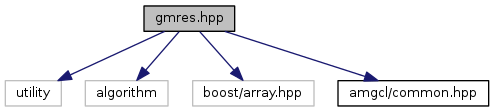
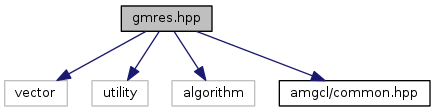
doc update

Changed region(s): [[0.269, 0.0268, 1.0, 0.9643], [0.0299, 0.2679, 0.508, 0.9643]]

diff --git a/structamgcl_1_1gmres__tag.html b/structamgcl_1_1gmres__tag.html
@@ -3,7 +3,7 @@
 <head>
 <meta http-equiv="Content-Type" content="text/xhtml;charset=UTF-8"/>
 <meta http-equiv="X-UA-Compatible" content="IE=9"/>
-<title>amgcl: amgcl::gmres_tag&lt; M &gt; Struct Template Reference</title>
+<title>amgcl: amgcl::gmres_tag Struct Reference</title>
 <link href="tabs.css" rel="stylesheet" type="text/css"/>
 <script type="text/javascript" src="jquery.js"></script>
 <script type="text/javascript" src="dynsections.js"></script>
@@ -52,7 +52,7 @@
 <a href="#pub-attribs">Public Attributes</a> &#124;
 <a href="structamgcl_1_1gmres__tag-members.html">List of all members</a>  </div>
   <div class="headertitle">
-<div class="title">amgcl::gmres_tag&lt; M &gt; Struct Template Reference</div>  </div>
+<div class="title">amgcl::gmres_tag Struct Reference</div>  </div>
 </div><!--header-->
 <div class="contents">
 
@@ -63,32 +63,27 @@
 <table class="memberdecls">
 <tr class="heading"><td colspan="2"><h2 class="groupheader"><a name="pub-methods"></a>
 Public Member Functions</h2></td></tr>
-<tr class="memitem:acbf582c62357544eb32341241117598a"><td class="memItemLeft" align="right" valign="top"><a class="anchor" id="acbf582c62357544eb32341241117598a"></a>
-&#160;</td><td class="memItemRight" valign="bottom"><b>gmres_tag</b> (int <a class="el" href="structamgcl_1_1gmres__tag.html#a3a2fb4072b03f48828a86e1b1318f8bb">maxiter</a>=100, double <a class="el" href="structamgcl_1_1gmres__tag.html#a91c7da6bb61467fb3cbec655c08b539c">tol</a>=1e-8)</td></tr>
-<tr class="separator:acbf582c62357544eb32341241117598a"><td class="memSeparator" colspan="2">&#160;</td></tr>
+<tr class="memitem:a7d90b4c6764ed2f3b420edb906b26098"><td class="memItemLeft" align="right" valign="top"><a class="anchor" id="a7d90b4c6764ed2f3b420edb906b26098"></a>
+&#160;</td><td class="memItemRight" valign="bottom"><b>gmres_tag</b> (int <a class="el" href="structamgcl_1_1gmres__tag.html#af2d40de41c597b38601e995961f82189">M</a>=30, int <a class="el" href="structamgcl_1_1gmres__tag.html#a9be6f55190cef122f0248a7b461a5ce4">maxiter</a>=100, double <a class="el" href="structamgcl_1_1gmres__tag.html#a948a0ab88614854773e6f8bb15d06466">tol</a>=1e-8)</td></tr>
+<tr class="separator:a7d90b4c6764ed2f3b420edb906b26098"><td class="memSeparator" colspan="2">&#160;</td></tr>
 </table><table class="memberdecls">
 <tr class="heading"><td colspan="2"><h2 class="groupheader"><a name="pub-attribs"></a>
 Public Attributes</h2></td></tr>
-<tr class="memitem:a3a2fb4072b03f48828a86e1b1318f8bb"><td class="memItemLeft" align="right" valign="top"><a class="anchor" id="a3a2fb4072b03f48828a86e1b1318f8bb"></a>
-int&#160;</td><td class="memItemRight" valign="bottom"><a class="el" href="structamgcl_1_1gmres__tag.html#a3a2fb4072b03f48828a86e1b1318f8bb">maxiter</a></td></tr>
-<tr class="memdesc:a3a2fb4072b03f48828a86e1b1318f8bb"><td class="mdescLeft">&#160;</td><td class="mdescRight">Maximum number of iterations. <br/></td></tr>
-<tr class="separator:a3a2fb4072b03f48828a86e1b1318f8bb"><td class="memSeparator" colspan="2">&#160;</td></tr>
-<tr class="memitem:a91c7da6bb61467fb3cbec655c08b539c"><td class="memItemLeft" align="right" valign="top"><a class="anchor" id="a91c7da6bb61467fb3cbec655c08b539c"></a>
-double&#160;</td><td class="memItemRight" valign="bottom"><a class="el" href="structamgcl_1_1gmres__tag.html#a91c7da6bb61467fb3cbec655c08b539c">tol</a></td></tr>
-<tr class="memdesc:a91c7da6bb61467fb3cbec655c08b539c"><td class="mdescLeft">&#160;</td><td class="mdescRight">The desired precision. <br/></td></tr>
-<tr class="separator:a91c7da6bb61467fb3cbec655c08b539c"><td class="memSeparator" colspan="2">&#160;</td></tr>
+<tr class="memitem:af2d40de41c597b38601e995961f82189"><td class="memItemLeft" align="right" valign="top"><a class="anchor" id="af2d40de41c597b38601e995961f82189"></a>
+int&#160;</td><td class="memItemRight" valign="bottom"><a class="el" href="structamgcl_1_1gmres__tag.html#af2d40de41c597b38601e995961f82189">M</a></td></tr>
+<tr class="memdesc:af2d40de41c597b38601e995961f82189"><td class="mdescLeft">&#160;</td><td class="mdescRight">Number of iterations before restart. <br/></td></tr>
+<tr class="separator:af2d40de41c597b38601e995961f82189"><td class="memSeparator" colspan="2">&#160;</td></tr>
+<tr class="memitem:a9be6f55190cef122f0248a7b461a5ce4"><td class="memItemLeft" align="right" valign="top"><a class="anchor" id="a9be6f55190cef122f0248a7b461a5ce4"></a>
+int&#160;</td><td class="memItemRight" valign="bottom"><a class="el" href="structamgcl_1_1gmres__tag.html#a9be6f55190cef122f0248a7b461a5ce4">maxiter</a></td></tr>
+<tr class="memdesc:a9be6f55190cef122f0248a7b461a5ce4"><td class="mdescLeft">&#160;</td><td class="mdescRight">Maximum number of iterations. <br/></td></tr>
+<tr class="separator:a9be6f55190cef122f0248a7b461a5ce4"><td class="memSeparator" colspan="2">&#160;</td></tr>
+<tr class="memitem:a948a0ab88614854773e6f8bb15d06466"><td class="memItemLeft" align="right" valign="top"><a class="anchor" id="a948a0ab88614854773e6f8bb15d06466"></a>
+double&#160;</td><td class="memItemRight" valign="bottom"><a class="el" href="structamgcl_1_1gmres__tag.html#a948a0ab88614854773e6f8bb15d06466">tol</a></td></tr>
+<tr class="memdesc:a948a0ab88614854773e6f8bb15d06466"><td class="mdescLeft">&#160;</td><td class="mdescRight">The desired precision. <br/></td></tr>
+<tr class="separator:a948a0ab88614854773e6f8bb15d06466"><td class="memSeparator" colspan="2">&#160;</td></tr>
 </table>
 <a name="details" id="details"></a><h2 class="groupheader">Detailed Description</h2>
-<div class="textblock"><h3>template&lt;size_t M = 30&gt;<br/>
-struct amgcl::gmres_tag&lt; M &gt;</h3>
-
-<p>Control parameters for GMRES method. </p>
-<dl class="params"><dt>Parameters</dt><dd>
-  <table class="params">
-    <tr><td class="paramname">M</td><td>Number of iterations before restart. </td></tr>
-  </table>
-  </dd>
-</dl>
+<div class="textblock"><p>Control parameters for GMRES method. </p>
 </div><hr/>The documentation for this struct was generated from the following file:<ul>
 <li><a class="el" href="common_8hpp.html">common.hpp</a></li>
 </ul>

diff --git a/gmres_8hpp.html b/gmres_8hpp.html
@@ -56,9 +56,9 @@
 
 <p>GMRES method.  
 <a href="#details">More...</a></p>
-<div class="textblock"><code>#include &lt;utility&gt;</code><br/>
+<div class="textblock"><code>#include &lt;vector&gt;</code><br/>
+<code>#include &lt;utility&gt;</code><br/>
 <code>#include &lt;algorithm&gt;</code><br/>
-<code>#include &lt;boost/array.hpp&gt;</code><br/>
 <code>#include &lt;<a class="el" href="common_8hpp.html">amgcl/common.hpp</a>&gt;</code><br/>
 </div><div class="textblock"><div id="dynsection-0" onclick="return toggleVisibility(this)" class="dynheader closed" style="cursor:pointer;">
   <img id="dynsection-0-trigger" src="closed.png" alt="+"/> Include dependency graph for gmres.hpp:</div>
@@ -67,7 +67,7 @@
 <div id="dynsection-0-content" class="dyncontent" style="display:none;">
 <div class="center"><img src="gmres_8hpp__incl.png" border="0" usemap="#gmres_8hpp" alt=""/></div>
 <map name="gmres_8hpp" id="gmres_8hpp">
-<area shape="rect" id="node9" href="common_8hpp.html" title="Common definitions for amgcl." alt="" coords="338,80,488,107"/></map>
+<area shape="rect" id="node9" href="common_8hpp.html" title="Common definitions for amgcl." alt="" coords="279,80,429,107"/></map>
 </div>
 </div><table class="memberdecls">
 <tr class="heading"><td colspan="2"><h2 class="groupheader"><a name="namespaces"></a>
@@ -86,15 +86,15 @@ template&lt;typename value_t &gt; </td></tr>
 template&lt;typename value_t &gt; </td></tr>
 <tr class="memitem:a19f01f3c965331090757d14db060d7f8"><td class="memTemplItemLeft" align="right" valign="top">void&#160;</td><td class="memTemplItemRight" valign="bottom"><b>amgcl::gmres::generate_plane_rotation</b> (value_t dx, value_t dy, value_t &amp;cs, value_t &amp;sn)</td></tr>
 <tr class="separator:a19f01f3c965331090757d14db060d7f8"><td class="memSeparator" colspan="2">&#160;</td></tr>
-<tr class="memitem:a57d496e8d0d1149fb1ed25f4b593c79f"><td class="memTemplParams" colspan="2"><a class="anchor" id="a57d496e8d0d1149fb1ed25f4b593c79f"></a>
-template&lt;size_t M, class vector &gt; </td></tr>
-<tr class="memitem:a57d496e8d0d1149fb1ed25f4b593c79f"><td class="memTemplItemLeft" align="right" valign="top">void&#160;</td><td class="memTemplItemRight" valign="bottom"><b>amgcl::gmres::update</b> (vector &amp;x, int k, boost::array&lt; boost::array&lt; typename value_type&lt; vector &gt;::type, M &gt;, M+1 &gt; &amp;h, const boost::array&lt; typename value_type&lt; vector &gt;::type, M+1 &gt; &amp;s, const boost::array&lt; vector, M+1 &gt; &amp;v, boost::array&lt; typename value_type&lt; vector &gt;::type, M+1 &gt; &amp;y)</td></tr>
-<tr class="separator:a57d496e8d0d1149fb1ed25f4b593c79f"><td class="memSeparator" colspan="2">&#160;</td></tr>
-<tr class="memitem:ga9854844427f73aac87036586dc7c62d0"><td class="memTemplParams" colspan="2">template&lt;size_t M, class matrix , class vector , class precond &gt; </td></tr>
-<tr class="memitem:ga9854844427f73aac87036586dc7c62d0"><td class="memTemplItemLeft" align="right" valign="top">std::pair&lt; int, typename <br class="typebreak"/>
-value_type&lt; vector &gt;::type &gt;&#160;</td><td class="memTemplItemRight" valign="bottom"><a class="el" href="group__iterative.html#ga9854844427f73aac87036586dc7c62d0">amgcl::solve</a> (const matrix &amp;A, const vector &amp;rhs, const precond &amp;P, vector &amp;x, gmres_tag&lt; M &gt; prm=gmres_tag&lt; M &gt;())</td></tr>
-<tr class="memdesc:ga9854844427f73aac87036586dc7c62d0"><td class="mdescLeft">&#160;</td><td class="mdescRight">GMRES method.  <a href="group__iterative.html#ga9854844427f73aac87036586dc7c62d0"></a><br/></td></tr>
-<tr class="separator:ga9854844427f73aac87036586dc7c62d0"><td class="memSeparator" colspan="2">&#160;</td></tr>
+<tr class="memitem:ab9e14bca1d873e101f0813bd01b8ef2d"><td class="memTemplParams" colspan="2"><a class="anchor" id="ab9e14bca1d873e101f0813bd01b8ef2d"></a>
+template&lt;class vector &gt; </td></tr>
+<tr class="memitem:ab9e14bca1d873e101f0813bd01b8ef2d"><td class="memTemplItemLeft" align="right" valign="top">void&#160;</td><td class="memTemplItemRight" valign="bottom"><b>amgcl::gmres::update</b> (vector &amp;x, int M, int k, std::vector&lt; typename value_type&lt; vector &gt;::type &gt; &amp;h, const std::vector&lt; typename value_type&lt; vector &gt;::type &gt; &amp;s, const std::vector&lt; vector &gt; &amp;v, std::vector&lt; typename value_type&lt; vector &gt;::type &gt; &amp;y)</td></tr>
+<tr class="separator:ab9e14bca1d873e101f0813bd01b8ef2d"><td class="memSeparator" colspan="2">&#160;</td></tr>
+<tr class="memitem:gae242f63b1c6ffabdc7ac440742e4297d"><td class="memTemplParams" colspan="2">template&lt;class matrix , class vector , class precond &gt; </td></tr>
+<tr class="memitem:gae242f63b1c6ffabdc7ac440742e4297d"><td class="memTemplItemLeft" align="right" valign="top">std::pair&lt; int, typename <br class="typebreak"/>
+value_type&lt; vector &gt;::type &gt;&#160;</td><td class="memTemplItemRight" valign="bottom"><a class="el" href="group__iterative.html#gae242f63b1c6ffabdc7ac440742e4297d">amgcl::solve</a> (const matrix &amp;A, const vector &amp;rhs, const precond &amp;P, vector &amp;x, gmres_tag prm=gmres_tag())</td></tr>
+<tr class="memdesc:gae242f63b1c6ffabdc7ac440742e4297d"><td class="mdescLeft">&#160;</td><td class="mdescRight">GMRES method.  <a href="group__iterative.html#gae242f63b1c6ffabdc7ac440742e4297d"></a><br/></td></tr>
+<tr class="separator:gae242f63b1c6ffabdc7ac440742e4297d"><td class="memSeparator" colspan="2">&#160;</td></tr>
 </table>
 <a name="details" id="details"></a><h2 class="groupheader">Detailed Description</h2>
 <div class="textblock"><p>GMRES method. </p>

diff --git a/group__iterative.html b/group__iterative.html
@@ -58,11 +58,11 @@ value_type&lt; vector &gt;::type &gt;&#160;</td><td class="memTemplItemRight" va
 value_type&lt; vector &gt;::type &gt;&#160;</td><td class="memTemplItemRight" valign="bottom"><a class="el" href="group__iterative.html#gac8e0c3c1ec4fdac25537aa7d20c008fd">amgcl::solve</a> (const matrix &amp;A, const vector &amp;rhs, const precond &amp;P, vector &amp;x, cg_tag prm=cg_tag())</td></tr>
 <tr class="memdesc:gac8e0c3c1ec4fdac25537aa7d20c008fd"><td class="mdescLeft">&#160;</td><td class="mdescRight">Conjugate Gradient method.  <a href="#gac8e0c3c1ec4fdac25537aa7d20c008fd"></a><br/></td></tr>
 <tr class="separator:gac8e0c3c1ec4fdac25537aa7d20c008fd"><td class="memSeparator" colspan="2">&#160;</td></tr>
-<tr class="memitem:ga9854844427f73aac87036586dc7c62d0"><td class="memTemplParams" colspan="2">template&lt;size_t M, class matrix , class vector , class precond &gt; </td></tr>
-<tr class="memitem:ga9854844427f73aac87036586dc7c62d0"><td class="memTemplItemLeft" align="right" valign="top">std::pair&lt; int, typename <br class="typebreak"/>
-value_type&lt; vector &gt;::type &gt;&#160;</td><td class="memTemplItemRight" valign="bottom"><a class="el" href="group__iterative.html#ga9854844427f73aac87036586dc7c62d0">amgcl::solve</a> (const matrix &amp;A, const vector &amp;rhs, const precond &amp;P, vector &amp;x, gmres_tag&lt; M &gt; prm=gmres_tag&lt; M &gt;())</td></tr>
-<tr class="memdesc:ga9854844427f73aac87036586dc7c62d0"><td class="mdescLeft">&#160;</td><td class="mdescRight">GMRES method.  <a href="#ga9854844427f73aac87036586dc7c62d0"></a><br/></td></tr>
-<tr class="separator:ga9854844427f73aac87036586dc7c62d0"><td class="memSeparator" colspan="2">&#160;</td></tr>
+<tr class="memitem:gae242f63b1c6ffabdc7ac440742e4297d"><td class="memTemplParams" colspan="2">template&lt;class matrix , class vector , class precond &gt; </td></tr>
+<tr class="memitem:gae242f63b1c6ffabdc7ac440742e4297d"><td class="memTemplItemLeft" align="right" valign="top">std::pair&lt; int, typename <br class="typebreak"/>
+value_type&lt; vector &gt;::type &gt;&#160;</td><td class="memTemplItemRight" valign="bottom"><a class="el" href="group__iterative.html#gae242f63b1c6ffabdc7ac440742e4297d">amgcl::solve</a> (const matrix &amp;A, const vector &amp;rhs, const precond &amp;P, vector &amp;x, gmres_tag prm=gmres_tag())</td></tr>
+<tr class="memdesc:gae242f63b1c6ffabdc7ac440742e4297d"><td class="mdescLeft">&#160;</td><td class="mdescRight">GMRES method.  <a href="#gae242f63b1c6ffabdc7ac440742e4297d"></a><br/></td></tr>
+<tr class="separator:gae242f63b1c6ffabdc7ac440742e4297d"><td class="memSeparator" colspan="2">&#160;</td></tr>
 <tr class="memitem:ga8b1eaa586d5a32da9f9a7e9a5e668216"><td class="memTemplParams" colspan="2">template&lt;class value_t , gpu_matrix_format Format, class precond &gt; </td></tr>
 <tr class="memitem:ga8b1eaa586d5a32da9f9a7e9a5e668216"><td class="memTemplItemLeft" align="right" valign="top">std::pair&lt; int, value_t &gt;&#160;</td><td class="memTemplItemRight" valign="bottom"><a class="el" href="group__iterative.html#ga8b1eaa586d5a32da9f9a7e9a5e668216">amgcl::solve</a> (const sparse::cuda_matrix&lt; value_t, Format &gt; &amp;A, const thrust::device_vector&lt; value_t &gt; &amp;rhs, const precond &amp;P, thrust::device_vector&lt; value_t &gt; &amp;x, cg_tag prm=cg_tag())</td></tr>
 <tr class="memdesc:ga8b1eaa586d5a32da9f9a7e9a5e668216"><td class="mdescLeft">&#160;</td><td class="mdescRight">Conjugate Gradient method for Thrust/CUSPARSE combination.  <a href="#ga8b1eaa586d5a32da9f9a7e9a5e668216"></a><br/></td></tr>
@@ -195,11 +195,11 @@ template&lt;class matrix , class vector , class precond &gt; </div>
 
 </div>
 </div>
-<a class="anchor" id="ga9854844427f73aac87036586dc7c62d0"></a>
+<a class="anchor" id="gae242f63b1c6ffabdc7ac440742e4297d"></a>
 <div class="memitem">
 <div class="memproto">
 <div class="memtemplate">
-template&lt;size_t M, class matrix , class vector , class precond &gt; </div>
+template&lt;class matrix , class vector , class precond &gt; </div>
       <table class="memname">
         <tr>
           <td class="memname">std::pair&lt; int, typename value_type&lt;vector&gt;::type &gt; amgcl::solve </td>
@@ -228,8 +228,8 @@ template&lt;size_t M, class matrix , class vector , class precond &gt; </div>
         <tr>
           <td class="paramkey"></td>
           <td></td>
-          <td class="paramtype">gmres_tag&lt; M &gt;&#160;</td>
-          <td class="paramname"><em>prm</em> = <code>gmres_tag&lt;M&gt;()</code>&#160;</td>
+          <td class="paramtype">gmres_tag&#160;</td>
+          <td class="paramname"><em>prm</em> = <code>gmres_tag()</code>&#160;</td>
         </tr>
         <tr>
           <td></td>

diff --git a/namespaceamgcl.html b/namespaceamgcl.html
@@ -127,11 +127,11 @@ value_type&lt; vector &gt;::type &gt;&#160;</td><td class="memTemplItemRight" va
 value_type&lt; vector &gt;::type &gt;&#160;</td><td class="memTemplItemRight" valign="bottom"><a class="el" href="group__iterative.html#gac8e0c3c1ec4fdac25537aa7d20c008fd">solve</a> (const matrix &amp;A, const vector &amp;rhs, const precond &amp;P, vector &amp;x, <a class="el" href="structamgcl_1_1cg__tag.html">cg_tag</a> prm=<a class="el" href="structamgcl_1_1cg__tag.html">cg_tag</a>())</td></tr>
 <tr class="memdesc:gac8e0c3c1ec4fdac25537aa7d20c008fd"><td class="mdescLeft">&#160;</td><td class="mdescRight">Conjugate Gradient method.  <a href="group__iterative.html#gac8e0c3c1ec4fdac25537aa7d20c008fd"></a><br/></td></tr>
 <tr class="separator:gac8e0c3c1ec4fdac25537aa7d20c008fd"><td class="memSeparator" colspan="2">&#160;</td></tr>
-<tr class="memitem:ga9854844427f73aac87036586dc7c62d0"><td class="memTemplParams" colspan="2">template&lt;size_t M, class matrix , class vector , class precond &gt; </td></tr>
-<tr class="memitem:ga9854844427f73aac87036586dc7c62d0"><td class="memTemplItemLeft" align="right" valign="top">std::pair&lt; int, typename <br class="typebreak"/>
-value_type&lt; vector &gt;::type &gt;&#160;</td><td class="memTemplItemRight" valign="bottom"><a class="el" href="group__iterative.html#ga9854844427f73aac87036586dc7c62d0">solve</a> (const matrix &amp;A, const vector &amp;rhs, const precond &amp;P, vector &amp;x, <a class="el" href="structamgcl_1_1gmres__tag.html">gmres_tag</a>&lt; M &gt; prm=<a class="el" href="structamgcl_1_1gmres__tag.html">gmres_tag</a>&lt; M &gt;())</td></tr>
-<tr class="memdesc:ga9854844427f73aac87036586dc7c62d0"><td class="mdescLeft">&#160;</td><td class="mdescRight">GMRES method.  <a href="group__iterative.html#ga9854844427f73aac87036586dc7c62d0"></a><br/></td></tr>
-<tr class="separator:ga9854844427f73aac87036586dc7c62d0"><td class="memSeparator" colspan="2">&#160;</td></tr>
+<tr class="memitem:gae242f63b1c6ffabdc7ac440742e4297d"><td class="memTemplParams" colspan="2">template&lt;class matrix , class vector , class precond &gt; </td></tr>
+<tr class="memitem:gae242f63b1c6ffabdc7ac440742e4297d"><td class="memTemplItemLeft" align="right" valign="top">std::pair&lt; int, typename <br class="typebreak"/>
+value_type&lt; vector &gt;::type &gt;&#160;</td><td class="memTemplItemRight" valign="bottom"><a class="el" href="group__iterative.html#gae242f63b1c6ffabdc7ac440742e4297d">solve</a> (const matrix &amp;A, const vector &amp;rhs, const precond &amp;P, vector &amp;x, <a class="el" href="structamgcl_1_1gmres__tag.html">gmres_tag</a> prm=<a class="el" href="structamgcl_1_1gmres__tag.html">gmres_tag</a>())</td></tr>
+<tr class="memdesc:gae242f63b1c6ffabdc7ac440742e4297d"><td class="mdescLeft">&#160;</td><td class="mdescRight">GMRES method.  <a href="group__iterative.html#gae242f63b1c6ffabdc7ac440742e4297d"></a><br/></td></tr>
+<tr class="separator:gae242f63b1c6ffabdc7ac440742e4297d"><td class="memSeparator" colspan="2">&#160;</td></tr>
 <tr class="memitem:ga8b1eaa586d5a32da9f9a7e9a5e668216"><td class="memTemplParams" colspan="2">template&lt;class value_t , gpu_matrix_format Format, class precond &gt; </td></tr>
 <tr class="memitem:ga8b1eaa586d5a32da9f9a7e9a5e668216"><td class="memTemplItemLeft" align="right" valign="top">std::pair&lt; int, value_t &gt;&#160;</td><td class="memTemplItemRight" valign="bottom"><a class="el" href="group__iterative.html#ga8b1eaa586d5a32da9f9a7e9a5e668216">solve</a> (const sparse::cuda_matrix&lt; value_t, Format &gt; &amp;A, const thrust::device_vector&lt; value_t &gt; &amp;rhs, const precond &amp;P, thrust::device_vector&lt; value_t &gt; &amp;x, <a class="el" href="structamgcl_1_1cg__tag.html">cg_tag</a> prm=<a class="el" href="structamgcl_1_1cg__tag.html">cg_tag</a>())</td></tr>
 <tr class="memdesc:ga8b1eaa586d5a32da9f9a7e9a5e668216"><td class="mdescLeft">&#160;</td><td class="mdescRight">Conjugate Gradient method for Thrust/CUSPARSE combination.  <a href="group__iterative.html#ga8b1eaa586d5a32da9f9a7e9a5e668216"></a><br/></td></tr>

diff --git a/functions.html b/functions.html
@@ -161,6 +161,9 @@
 
 
 <h3><a class="anchor" id="index_m"></a>- m -</h3><ul>
+<li>M
+: <a class="el" href="structamgcl_1_1gmres__tag.html#af2d40de41c597b38601e995961f82189">amgcl::gmres_tag</a>
+</li>
 <li>matrix()
 : <a class="el" href="structamgcl_1_1sparse_1_1matrix.html#a47f7b0d6c9662058ef5433a7d132a49e">amgcl::sparse::matrix&lt; value_t, index_t &gt;</a>
 </li>
@@ -168,15 +171,15 @@
 : <a class="el" href="structamgcl_1_1sparse_1_1matrix__map.html#a248328d2bd6909204c05c80efdfaec5e">amgcl::sparse::matrix_map&lt; value_t, index_t &gt;</a>
 </li>
 <li>maxiter
-: <a class="el" href="structamgcl_1_1gmres__tag.html#a3a2fb4072b03f48828a86e1b1318f8bb">amgcl::gmres_tag&lt; M &gt;</a>
+: <a class="el" href="structamgcl_1_1bicg__tag.html#a03d3f4e38bc9aee3f551c8fcb1e4f22e">amgcl::bicg_tag</a>
+, <a class="el" href="structamgcl_1_1gmres__tag.html#a9be6f55190cef122f0248a7b461a5ce4">amgcl::gmres_tag</a>
 , <a class="el" href="structamgcl_1_1level_1_1params.html#a89b944c37ce87f3d2835a4abded298a9">amgcl::level::params</a>
-, <a class="el" href="structamgcl_1_1bicg__tag.html#a03d3f4e38bc9aee3f551c8fcb1e4f22e">amgcl::bicg_tag</a>
 , <a class="el" href="structamgcl_1_1cg__tag.html#a39054178af217173585caa1ddfc5d00f">amgcl::cg_tag</a>
 </li>
 <li>mul()
-: <a class="el" href="classamgcl_1_1sparse_1_1cuda__matrix_3_01value__type_00_01GPU__MATRIX__CRS_01_4.html#a77427c5d0d8c163419e31c3a6618f8fa">amgcl::sparse::cuda_matrix&lt; value_type, GPU_MATRIX_CRS &gt;</a>
-, <a class="el" href="classamgcl_1_1sparse_1_1cuda__matrix_3_01value__type_00_01GPU__MATRIX__HYB_01_4.html#af53a96946fce9240eb6d5d9187f0f1c5">amgcl::sparse::cuda_matrix&lt; value_type, GPU_MATRIX_HYB &gt;</a>
-, <a class="el" href="classamgcl_1_1sparse_1_1cuda__matrix_3_01value__type_00_01GPU__MATRIX__CRS_01_4.html#adaa9304a3c54e4a0991e629a5748b940">amgcl::sparse::cuda_matrix&lt; value_type, GPU_MATRIX_CRS &gt;</a>
+: <a class="el" href="classamgcl_1_1sparse_1_1cuda__matrix_3_01value__type_00_01GPU__MATRIX__CRS_01_4.html#adaa9304a3c54e4a0991e629a5748b940">amgcl::sparse::cuda_matrix&lt; value_type, GPU_MATRIX_CRS &gt;</a>
+, <a class="el" href="classamgcl_1_1sparse_1_1cuda__matrix_3_01value__type_00_01GPU__MATRIX__HYB_01_4.html#aa1812bcfc25b011945eac2391c778f96">amgcl::sparse::cuda_matrix&lt; value_type, GPU_MATRIX_HYB &gt;</a>
+, <a class="el" href="classamgcl_1_1sparse_1_1cuda__matrix_3_01value__type_00_01GPU__MATRIX__CRS_01_4.html#a77427c5d0d8c163419e31c3a6618f8fa">amgcl::sparse::cuda_matrix&lt; value_type, GPU_MATRIX_CRS &gt;</a>
 </li>
 </ul>
 
@@ -267,7 +270,7 @@
 <li>tol
 : <a class="el" href="structamgcl_1_1bicg__tag.html#a4817ba6d3a5fe318e65e68e8a329d908">amgcl::bicg_tag</a>
 , <a class="el" href="structamgcl_1_1level_1_1params.html#a07f88e91f902efdac8cee6588c10f6a7">amgcl::level::params</a>
-, <a class="el" href="structamgcl_1_1gmres__tag.html#a91c7da6bb61467fb3cbec655c08b539c">amgcl::gmres_tag&lt; M &gt;</a>
+, <a class="el" href="structamgcl_1_1gmres__tag.html#a948a0ab88614854773e6f8bb15d06466">amgcl::gmres_tag</a>
 , <a class="el" href="structamgcl_1_1cg__tag.html#a7a7a7edd0ab8d2086fe20a3fc7686571">amgcl::cg_tag</a>
 </li>
 <li>top_matrix()

diff --git a/hierarchy.html b/hierarchy.html
@@ -69,7 +69,7 @@ This inheritance list is sorted roughly, but not completely, alphabetically:</di
 <tr id="row_15_"><td class="entry"><img src="ftv2node.png" alt="o" width="16" height="22" /><img src="ftv2cl.png" alt="C" width="24" height="22" /><a class="el" href="structamgcl_1_1level_1_1cuda__relax__scheme_3_01relax_1_1damped__jacobi_01_4.html" target="_self">amgcl::level::cuda_relax_scheme&lt; relax::damped_jacobi &gt;</a></td><td class="desc">Relax::damped_jacobi scheme for <a class="el" href="structamgcl_1_1level_1_1cuda.html" title="Thrust/CUSPARSE based AMG hierarchy.">level::cuda</a></td></tr>
 <tr id="row_16_" class="even"><td class="entry"><img src="ftv2node.png" alt="o" width="16" height="22" /><img src="ftv2cl.png" alt="C" width="24" height="22" /><a class="el" href="structamgcl_1_1level_1_1cuda__relax__scheme_3_01relax_1_1spai0_01_4.html" target="_self">amgcl::level::cuda_relax_scheme&lt; relax::spai0 &gt;</a></td><td class="desc">Relax::spai0 scheme for <a class="el" href="structamgcl_1_1level_1_1cuda.html" title="Thrust/CUSPARSE based AMG hierarchy.">level::cuda</a></td></tr>
 <tr id="row_17_"><td class="entry"><img src="ftv2node.png" alt="o" width="16" height="22" /><img src="ftv2cl.png" alt="C" width="24" height="22" /><a class="el" href="structamgcl_1_1interp_1_1galerkin__operator.html" target="_self">amgcl::interp::galerkin_operator</a></td><td class="desc">Galerkin operator</td></tr>
-<tr id="row_18_" class="even"><td class="entry"><img src="ftv2node.png" alt="o" width="16" height="22" /><img src="ftv2cl.png" alt="C" width="24" height="22" /><a class="el" href="structamgcl_1_1gmres__tag.html" target="_self">amgcl::gmres_tag&lt; M &gt;</a></td><td class="desc">Control parameters for GMRES method</td></tr>
+<tr id="row_18_" class="even"><td class="entry"><img src="ftv2node.png" alt="o" width="16" height="22" /><img src="ftv2cl.png" alt="C" width="24" height="22" /><a class="el" href="structamgcl_1_1gmres__tag.html" target="_self">amgcl::gmres_tag</a></td><td class="desc">Control parameters for GMRES method</td></tr>
 <tr id="row_19_"><td class="entry"><img src="ftv2node.png" alt="o" width="16" height="22" /><img src="ftv2cl.png" alt="C" width="24" height="22" /><a class="el" href="structamgcl_1_1sparse_1_1matrix.html" target="_self">amgcl::sparse::matrix&lt; value_t, index_t &gt;</a></td><td class="desc">Sparse matrix in CRS format</td></tr>
 <tr id="row_20_" class="even"><td class="entry"><img src="ftv2node.png" alt="o" width="16" height="22" /><img src="ftv2cl.png" alt="C" width="24" height="22" /><a class="el" href="structamgcl_1_1sparse_1_1matrix__index.html" target="_self">amgcl::sparse::matrix_index&lt; spmat &gt;</a></td><td class="desc">Type of matrix indices</td></tr>
 <tr id="row_21_"><td class="entry"><img src="ftv2node.png" alt="o" width="16" height="22" /><img src="ftv2cl.png" alt="C" width="24" height="22" /><a class="el" href="structamgcl_1_1sparse_1_1matrix__map.html" target="_self">amgcl::sparse::matrix_map&lt; value_t, index_t &gt;</a></td><td class="desc">Proxy for sparse matrix in CRS format that does not own its data</td></tr>

diff --git a/structamgcl_1_1gmres__tag-members.html b/structamgcl_1_1gmres__tag-members.html
@@ -48,15 +48,16 @@
 </div><!-- top -->
 <div class="header">
   <div class="headertitle">
-<div class="title">amgcl::gmres_tag&lt; M &gt; Member List</div>  </div>
+<div class="title">amgcl::gmres_tag Member List</div>  </div>
 </div><!--header-->
 <div class="contents">
 
-<p>This is the complete list of members for <a class="el" href="structamgcl_1_1gmres__tag.html">amgcl::gmres_tag&lt; M &gt;</a>, including all inherited members.</p>
+<p>This is the complete list of members for <a class="el" href="structamgcl_1_1gmres__tag.html">amgcl::gmres_tag</a>, including all inherited members.</p>
 <table class="directory">
-  <tr bgcolor="#f0f0f0"class="even"><td class="entry"><b>gmres_tag</b>(int maxiter=100, double tol=1e-8) (defined in <a class="el" href="structamgcl_1_1gmres__tag.html">amgcl::gmres_tag&lt; M &gt;</a>)</td><td class="entry"><a class="el" href="structamgcl_1_1gmres__tag.html">amgcl::gmres_tag&lt; M &gt;</a></td><td class="entry"><span class="mlabel">inline</span></td></tr>
-  <tr><td class="entry"><a class="el" href="structamgcl_1_1gmres__tag.html#a3a2fb4072b03f48828a86e1b1318f8bb">maxiter</a></td><td class="entry"><a class="el" href="structamgcl_1_1gmres__tag.html">amgcl::gmres_tag&lt; M &gt;</a></td><td class="entry"></td></tr>
-  <tr class="even"><td class="entry"><a class="el" href="structamgcl_1_1gmres__tag.html#a91c7da6bb61467fb3cbec655c08b539c">tol</a></td><td class="entry"><a class="el" href="structamgcl_1_1gmres__tag.html">amgcl::gmres_tag&lt; M &gt;</a></td><td class="entry"></td></tr>
+  <tr bgcolor="#f0f0f0"class="even"><td class="entry"><b>gmres_tag</b>(int M=30, int maxiter=100, double tol=1e-8) (defined in <a class="el" href="structamgcl_1_1gmres__tag.html">amgcl::gmres_tag</a>)</td><td class="entry"><a class="el" href="structamgcl_1_1gmres__tag.html">amgcl::gmres_tag</a></td><td class="entry"><span class="mlabel">inline</span></td></tr>
+  <tr><td class="entry"><a class="el" href="structamgcl_1_1gmres__tag.html#af2d40de41c597b38601e995961f82189">M</a></td><td class="entry"><a class="el" href="structamgcl_1_1gmres__tag.html">amgcl::gmres_tag</a></td><td class="entry"></td></tr>
+  <tr class="even"><td class="entry"><a class="el" href="structamgcl_1_1gmres__tag.html#a9be6f55190cef122f0248a7b461a5ce4">maxiter</a></td><td class="entry"><a class="el" href="structamgcl_1_1gmres__tag.html">amgcl::gmres_tag</a></td><td class="entry"></td></tr>
+  <tr><td class="entry"><a class="el" href="structamgcl_1_1gmres__tag.html#a948a0ab88614854773e6f8bb15d06466">tol</a></td><td class="entry"><a class="el" href="structamgcl_1_1gmres__tag.html">amgcl::gmres_tag</a></td><td class="entry"></td></tr>
 </table></div><!-- contents -->
 <!-- start footer part -->
 <hr class="footer"/><address class="footer"><small>

diff --git a/functions_vars.html b/functions_vars.html
@@ -129,11 +129,14 @@
 
 
 <h3><a class="anchor" id="index_m"></a>- m -</h3><ul>
+<li>M
+: <a class="el" href="structamgcl_1_1gmres__tag.html#af2d40de41c597b38601e995961f82189">amgcl::gmres_tag</a>
+</li>
 <li>maxiter
-: <a class="el" href="structamgcl_1_1cg__tag.html#a39054178af217173585caa1ddfc5d00f">amgcl::cg_tag</a>
-, <a class="el" href="structamgcl_1_1level_1_1params.html#a89b944c37ce87f3d2835a4abded298a9">amgcl::level::params</a>
-, <a class="el" href="structamgcl_1_1gmres__tag.html#a3a2fb4072b03f48828a86e1b1318f8bb">amgcl::gmres_tag&lt; M &gt;</a>
+: <a class="el" href="structamgcl_1_1level_1_1params.html#a89b944c37ce87f3d2835a4abded298a9">amgcl::level::params</a>
+, <a class="el" href="structamgcl_1_1gmres__tag.html#a9be6f55190cef122f0248a7b461a5ce4">amgcl::gmres_tag</a>
 , <a class="el" href="structamgcl_1_1bicg__tag.html#a03d3f4e38bc9aee3f551c8fcb1e4f22e">amgcl::bicg_tag</a>
+, <a class="el" href="structamgcl_1_1cg__tag.html#a39054178af217173585caa1ddfc5d00f">amgcl::cg_tag</a>
 </li>
 </ul>
 
@@ -178,7 +181,7 @@
 : <a class="el" href="structamgcl_1_1cg__tag.html#a7a7a7edd0ab8d2086fe20a3fc7686571">amgcl::cg_tag</a>
 , <a class="el" href="structamgcl_1_1bicg__tag.html#a4817ba6d3a5fe318e65e68e8a329d908">amgcl::bicg_tag</a>
 , <a class="el" href="structamgcl_1_1level_1_1params.html#a07f88e91f902efdac8cee6588c10f6a7">amgcl::level::params</a>
-, <a class="el" href="structamgcl_1_1gmres__tag.html#a91c7da6bb61467fb3cbec655c08b539c">amgcl::gmres_tag&lt; M &gt;</a>
+, <a class="el" href="structamgcl_1_1gmres__tag.html#a948a0ab88614854773e6f8bb15d06466">amgcl::gmres_tag</a>
 </li>
 <li>trunc_int
 : <a class="el" href="structamgcl_1_1interp_1_1classic_1_1params.html#a12bd0fbe4dc62825ff92e2d2303f69e9">amgcl::interp::classic::params</a>

diff --git a/common_8hpp.html b/common_8hpp.html
@@ -76,7 +76,7 @@ Classes</h2></td></tr>
 <tr class="memitem:"><td class="memItemLeft" align="right" valign="top">struct &#160;</td><td class="memItemRight" valign="bottom"><a class="el" href="structamgcl_1_1bicg__tag.html">amgcl::bicg_tag</a></td></tr>
 <tr class="memdesc:"><td class="mdescLeft">&#160;</td><td class="mdescRight">Control parameters for Stabilized BiConjugate Gradient method.  <a href="structamgcl_1_1bicg__tag.html#details">More...</a><br/></td></tr>
 <tr class="separator:"><td class="memSeparator" colspan="2">&#160;</td></tr>
-<tr class="memitem:"><td class="memItemLeft" align="right" valign="top">struct &#160;</td><td class="memItemRight" valign="bottom"><a class="el" href="structamgcl_1_1gmres__tag.html">amgcl::gmres_tag&lt; M &gt;</a></td></tr>
+<tr class="memitem:"><td class="memItemLeft" align="right" valign="top">struct &#160;</td><td class="memItemRight" valign="bottom"><a class="el" href="structamgcl_1_1gmres__tag.html">amgcl::gmres_tag</a></td></tr>
 <tr class="memdesc:"><td class="mdescLeft">&#160;</td><td class="mdescRight">Control parameters for GMRES method.  <a href="structamgcl_1_1gmres__tag.html#details">More...</a><br/></td></tr>
 <tr class="separator:"><td class="memSeparator" colspan="2">&#160;</td></tr>
 </table><table class="memberdecls">

diff --git a/inherits.html b/inherits.html
@@ -62,9 +62,9 @@
 <map name="amgcl_1_1cg__tag" id="amgcl_1_1cg__tag">
 <area shape="rect" id="node1" href="structamgcl_1_1cg__tag.html" title="Control parameters for Conjugate Gradient method." alt="" coords="5,5,117,32"/></map>
 </td></tr>
-<tr><td><img src="inherit_graph_3.png" border="0" alt="" usemap="#amgcl_1_1gmres__tag_3_01M_01_4"/>
-<map name="amgcl_1_1gmres__tag_3_01M_01_4" id="amgcl_1_1gmres__tag_3_01M_01_4">
-<area shape="rect" id="node1" href="structamgcl_1_1gmres__tag.html" title="Control parameters for GMRES method." alt="" coords="5,5,184,32"/></map>
+<tr><td><img src="inherit_graph_3.png" border="0" alt="" usemap="#amgcl_1_1gmres__tag"/>
+<map name="amgcl_1_1gmres__tag" id="amgcl_1_1gmres__tag">
+<area shape="rect" id="node1" href="structamgcl_1_1gmres__tag.html" title="Control parameters for GMRES method." alt="" coords="5,5,144,32"/></map>
 </td></tr>
 <tr><td><img src="inherit_graph_4.png" border="0" alt="" usemap="#amgcl_1_1interp_1_1aggregated__operator"/>
 <map name="amgcl_1_1interp_1_1aggregated__operator" id="amgcl_1_1interp_1_1aggregated__operator">

diff --git a/structamgcl_1_1level_1_1viennacl_1_1params.html b/structamgcl_1_1level_1_1viennacl_1_1params.html
@@ -110,7 +110,7 @@ double&#160;</td><td class="memItemRight" valign="bottom"><a class="el" href="st
 <tr class="separator:a07f88e91f902efdac8cee6588c10f6a7 inherit pub_attribs_structamgcl_1_1level_1_1params"><td class="memSeparator" colspan="2">&#160;</td></tr>
 </table>
 <a name="details" id="details"></a><h2 class="groupheader">Detailed Description</h2>
-<div class="textblock"><h3>template&lt;gpu_matrix_format Format = GPU_MATRIX_HYB, relax::scheme Relaxation = relax::damped_jacobi&gt;<br/>
+<div class="textblock"><h3>template&lt;gpu_matrix_format Format = GPU_MATRIX_HYB, relax::scheme Relaxation = relax::spai0&gt;<br/>
 struct amgcl::level::viennacl&lt; Format, Relaxation &gt;::params</h3>
 
 <p>Parameters for CPU-based level storage scheme. </p>

diff --git a/structamgcl_1_1level_1_1viennacl.html b/structamgcl_1_1level_1_1viennacl.html
@@ -66,7 +66,7 @@ Classes</h2></td></tr>
 <tr class="separator:"><td class="memSeparator" colspan="2">&#160;</td></tr>
 </table>
 <a name="details" id="details"></a><h2 class="groupheader">Detailed Description</h2>
-<div class="textblock"><h3>template&lt;gpu_matrix_format Format = GPU_MATRIX_HYB, relax::scheme Relaxation = relax::damped_jacobi&gt;<br/>
+<div class="textblock"><h3>template&lt;gpu_matrix_format Format = GPU_MATRIX_HYB, relax::scheme Relaxation = relax::spai0&gt;<br/>
 struct amgcl::level::viennacl&lt; Format, Relaxation &gt;</h3>
 
 <p>ViennaCL-based AMG hierarchy. </p>
